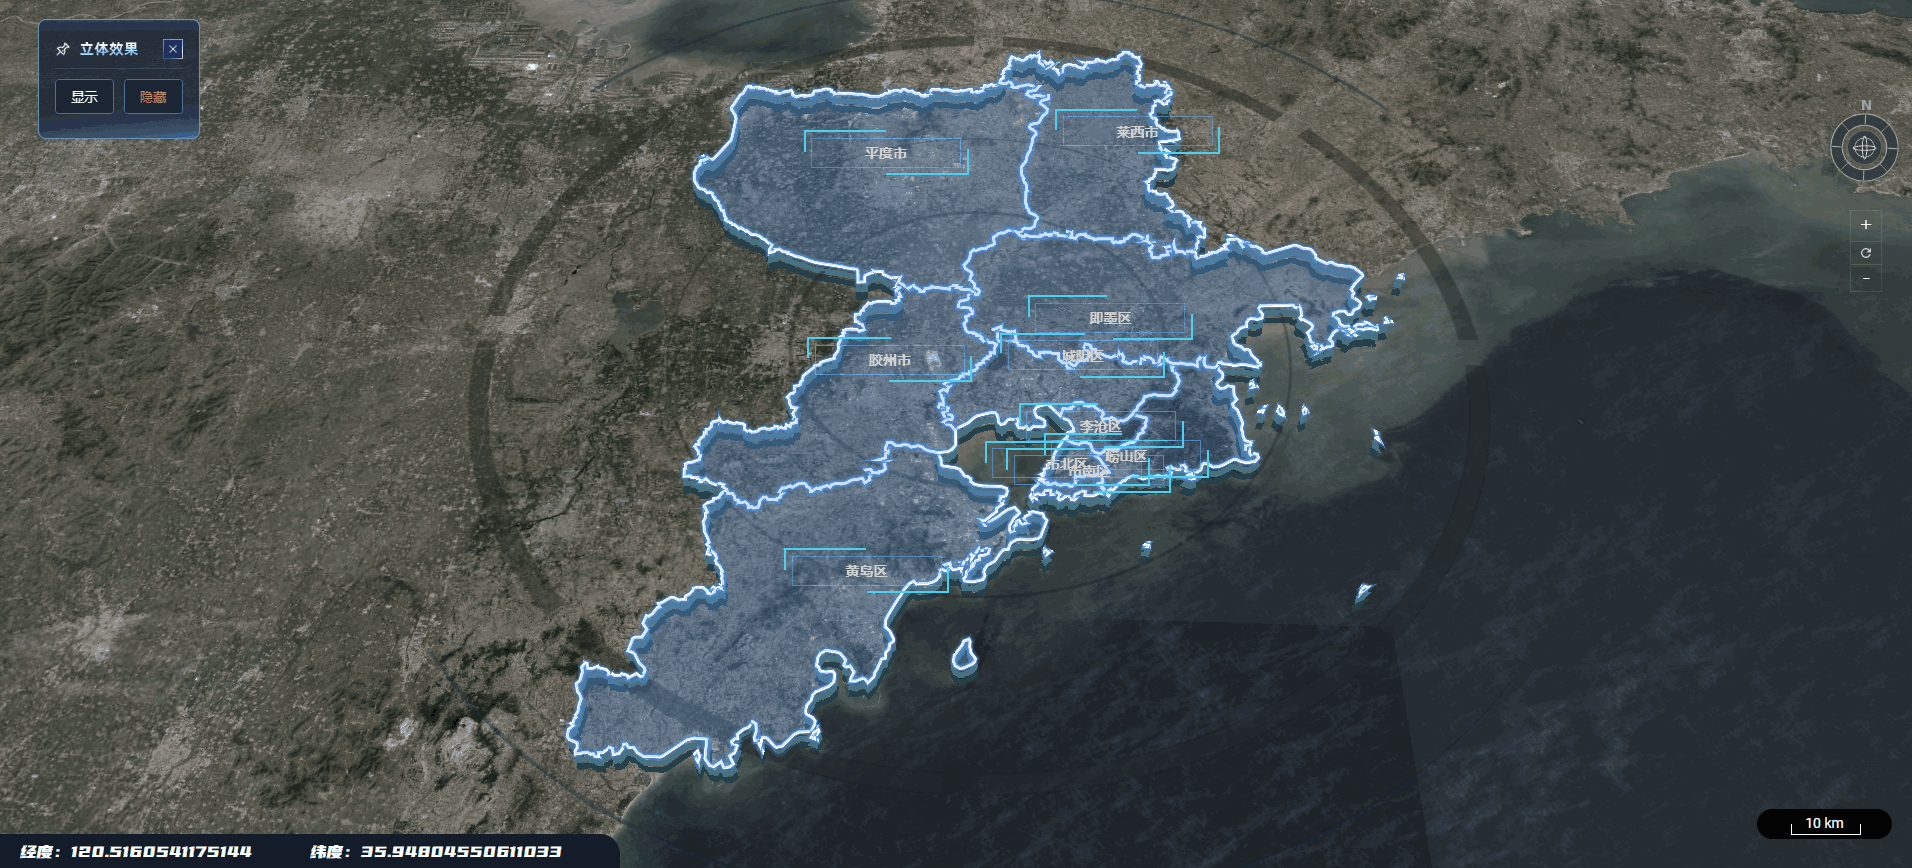
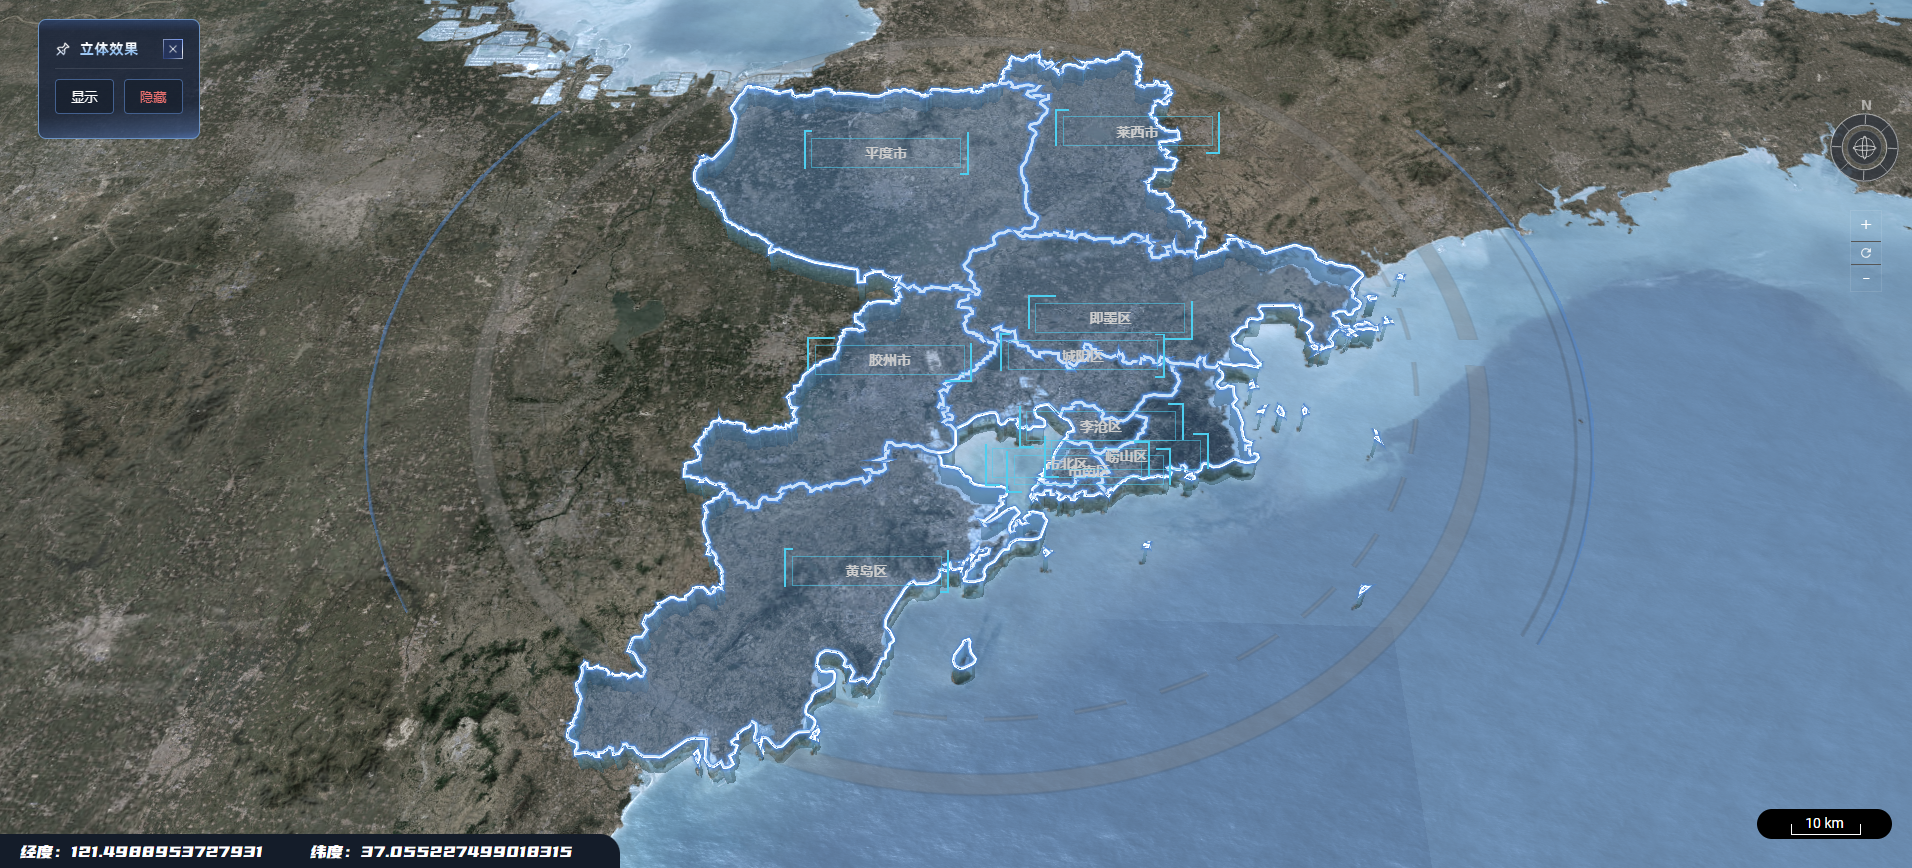
修改部分样式

diff --git a/src/components/example/other/Stereoeffect.vue b/src/components/example/other/Stereoeffect.vue
@@ -12,9 +12,8 @@ import { onMounted } from "vue";
 import { Cartesian3, Appearance, Color } from "cesium";
 import qingdao from "./assets/json/青岛市.json";
 import qingdaoInner from "./assets/json/青岛市-in.json";
-import maskLayer from "@/secdev/cameraView/maskLayer";
-import flowLineAppearance from "@/secdev/specialEffectPlot/lineMaterial/flowLineAppearance";
 import dynamicLabelPoint from "@/secdev/specialEffectPlot/domPoint/dynamicLabelPoint";
+import gradationWallImage from "@/secdev/specialEffectPlot/wall/gradationWallImage";
 
 let border = qingdao.features[0].geometry.coordinates;
 let borderC3 = border.map((coord) => {
@@ -25,7 +24,7 @@ let borderC3 = border.map((coord) => {
     return c3s;
 });
 
-let labels = [];
+let labels: { label: string; coord: number[] }[] = [];
 let innerC3 = qingdaoInner.features
     .map((v) => {
         labels.push({
@@ -45,44 +44,24 @@ let innerC3 = qingdaoInner.features
 
 onMounted(() => {
     viewer.scene.globe.depthTestAgainstTerrain = true;
-    // let mask = new maskLayer(viewer);
-    // mask.create(
-    //     borderC3.map((v) => new Cesium.PolygonHierarchy(v)),
-    //     {
-    //         wall: false,
-    //         alpha: 0.5,
-    //     }
-    // );
+
     // 调整饱和度
     let layer = viewer.imageryLayers.get(0);
     layer.saturation = 0.3;
-    addBorder(
+
+    // 渐变墙
+    addWall(
         borderC3,
-        5,
-        colorAppearance(Cesium.Color.fromCssColorString("rgb(32,65,75)"), true),
-        // flowLineAppearance(Cesium.Color.fromCssColorString("rgb(32,65,75)")),
-        new Cesium.Cartesian3(0, 0, 1000)
-    );
-    addBorder(
-        borderC3,
-        5,
-        colorAppearance(
-            Cesium.Color.fromCssColorString("rgb(63,115,130)"),
-            true
-        ),
-        // flowLineAppearance(Cesium.Color.fromCssColorString("rgb(63,115,130)")),
-        new Cesium.Cartesian3(0, 0, 3000)
+        5000,
+        wallMaterial({
+            0.0: "rgba(32,65,75,0.5)",
+            0.5: "rgba(63,115,130,0.5)",
+            1.0: "rgba(65,132,204,0.5)",
+        })
     );
 
-    // addBorder(
-    //     innerC3,
-    //     10,
-    //     // colorAppearance(Cesium.Color.fromCssColorString("rgb(109,215,248)"), true),
-    //     flowLineAppearance(Cesium.Color.fromCssColorString("rgb(109,215,248)")),
-    //     new Cesium.Cartesian3(0, 0, 5000)
-    // );
-    // 最上
-    let b = addBorder(
+    // 发光线
+    addBorder(
         innerC3,
         10,
         new Cesium.PolylineMaterialAppearance({
@@ -97,7 +76,6 @@ onMounted(() => {
                 },
             }),
         }),
-        // flowLineAppearance(Cesium.Color.fromCssColorString("rgb(109,215,248)")),
         new Cesium.Cartesian3(0, 0, 5000)
     );
 
@@ -112,13 +90,17 @@ onMounted(() => {
     );
 
     labels.forEach((v) => {
-        let p = new dynamicLabelPoint(viewer, {
-            lon: v.coord[0],
-            lat: v.coord[1],
-            height: 5000,
-        }, v.label)
+        let p = new dynamicLabelPoint(
+            viewer,
+            {
+                lon: v.coord[0],
+                lat: v.coord[1],
+                height: 5000,
+            },
+            v.label
+        );
         p.init();
-    })
+    });
 
     addInner();
 
@@ -135,6 +117,26 @@ onMounted(() => {
         ),
     });
 });
+
+function addWall(c3s: Cartesian3[][], height: number, appearance: Appearance) {
+    let wallInstances = c3s.map((v) => {
+        let geomInstance = new Cesium.GeometryInstance({
+            geometry: new Cesium.WallGeometry({
+                positions: v,
+                minimumHeights: v.map(() => 0),
+                maximumHeights: v.map(() => height),
+                vertexFormat: Cesium.VertexFormat.ALL,
+            }),
+        });
+        return geomInstance;
+    });
+
+    let borderprimitive = new Cesium.Primitive({
+        geometryInstances: wallInstances,
+        appearance: appearance,
+    });
+    viewer.scene.primitives.add(borderprimitive);
+}
 
 // 位移
 function displacement(center: Cartesian3, offset: Cartesian3) {
@@ -258,43 +260,12 @@ function circleMaterial() {
 
                     const float M_PI = 3.1415926535897932384626433832795;
 
-                    // const vec3 blue1 = vec3(0.74,0.95,1.00);
-                    // const vec3 blue2 = vec3(0.87,0.98,1.00);
-                    // const vec3 blue3 = vec3(0.35,0.76,0.83);
-
-                    const vec3 blue1 = vec3(0.3, 0.3, 0.3);
+                    const vec3 blue1 = vec3(1., 1., 1.);
                     const vec3 blue2 = vec3(65./255., 132./255., 204./255.);
-                    const vec3 blue3 = vec3(65./255., 132./255., 204./255.);
 
                     float SMOOTH(float r, float R)
                     {
                         return 1.0-smoothstep(R-1.0,R+1.0, r);
-                    }
-
-                    float RS(float a, float b, float x)
-                    {
-                        return smoothstep(a-1.0,a+1.0,x)*(1.0-smoothstep(b-1.0,b+1.0,x));
-                    }
-
-                    float movingLine(vec2 uv, vec2 center, float radius)
-                    {
-                        //angle of the line
-                        float theta0 = 90.0 * time;
-                        vec2 d = uv - center;
-                        float r = sqrt( dot( d, d ) );
-                        if(r<radius)
-                        {
-                            //compute the distance to the line theta=theta0
-                            vec2 p = radius*vec2(cos(theta0*M_PI/180.0),
-                                                -sin(theta0*M_PI/180.0));
-                            float l = length( d - p*clamp( dot(d,p)/dot(p,p), 0.0, 1.0) );
-                            d = normalize(d);
-                            //compute gradient based on angle difference to theta0
-                            float theta = mod(180.0*atan(d.y,d.x)/M_PI+theta0,360.0);
-                            float gradient = clamp(1.0-theta/90.0,0.0,1.0);
-                            return SMOOTH(l,1.0)+0.5*gradient;
-                        }
-                        else return 0.0;
                     }
 
                     float circle(vec2 uv, vec2 center, float radius, float width)
@@ -308,41 +279,21 @@ function circleMaterial() {
                         vec2 d = uv - center;
                         float r = sqrt( dot( d, d ) );
                         d = normalize(d);
-                        if( abs(d.y) > opening )
+                        if( abs(d.x) > opening )
                             return SMOOTH(r-width/2.0,radius)-SMOOTH(r+width/2.0,radius);
                         else
                             return 0.0;
                     }
 
-                    float circle3(vec2 uv, vec2 center, float radius, float width)
+                    float circle3(vec2 uv, vec2 center, float radius, float width, float du)
                     {
                         vec2 d = uv - center;
                         float r = sqrt( dot( d, d ) );
                         d = normalize(d);
                         float theta = 180.0*(atan(d.y,d.x)/M_PI);
-                        return smoothstep(2.0, 2.1, abs(mod(theta+2.0,45.0)-2.0)) *
-                            mix( 0.5, 1.0, step(45.0, abs(mod(theta, 36.0)-90.0)) ) *
+                        return smoothstep(2.0, 2.1, abs(mod(theta+2.0,du)-2.0)) *
+                            mix( 0.5, 1.0, step(du, abs(mod(theta, 36.0)-90.0)) ) *
                             (SMOOTH(r-width/2.0,radius)-SMOOTH(r+width/2.0,radius));
-                    }
-
-                    float triangles(vec2 uv, vec2 center, float radius)
-                    {
-                        vec2 d = uv - center;
-                        return RS(-8.0, 0.0, d.x-radius) * (1.0-smoothstep( 7.0+d.x-radius,9.0+d.x-radius, abs(d.y)))
-                            + RS( 0.0, 8.0, d.x+radius) * (1.0-smoothstep( 7.0-d.x-radius,9.0-d.x-radius, abs(d.y)))
-                            + RS(-8.0, 0.0, d.y-radius) * (1.0-smoothstep( 7.0+d.y-radius,9.0+d.y-radius, abs(d.x)))
-                            + RS( 0.0, 8.0, d.y+radius) * (1.0-smoothstep( 7.0-d.y-radius,9.0-d.y-radius, abs(d.x)));
-                    }
-
-                    float _cross(vec2 uv, vec2 center, float radius)
-                    {
-                        vec2 d = uv - center;
-                        int x = int(d.x);
-                        int y = int(d.y);
-                        float r = sqrt( dot( d, d ) );
-                        if( (r<radius) && ( (x==y) || (x==-y) ) )
-                            return 1.0;
-                        else return 0.0;
                     }
 
                     czm_material czm_getMaterial(czm_materialInput materialInput){
@@ -354,38 +305,26 @@ function circleMaterial() {
 
                         vec2 c = vec2(640.) / 2.; // 中心
 
-                        // float cross_result = _cross(uv, c, 240.0);
-                        // finalColor = vec3(0.3 * cross_result);
-                        // alpha = cross_result;
-
                         // 两个内圈
-                        float circle_result_1 = circle(uv, c, 100.0, 2.0) + circle(uv, c, 165.0, 1.0);
-                        finalColor += circle_result_1 * blue1;
-                        alpha += circle_result_1;
-                        // 白圈
-                        // float circle_result_2 = circle(uv, c, 240.0, 4.0);
-                        // finalColor += circle_result_2;
-                        // alpha += circle_result_2;
-                        // 最外圈
-                        float circle3_result = circle3(uv, c, 262.0, 10.0);
+                        // float circle_result_1 = circle(uv, c, 100.0, 2.0) + circle(uv, c, 165.0, 1.0);
+                        // finalColor += circle_result_1 * blue1;
+                        // alpha += circle_result_1;
+                        // 粗圈
+                        float circle3_result = circle3(uv, c, 262.0, 10.0, 0.);
                         finalColor += circle3_result * blue1;
-                        alpha += circle3_result;
-                        // 三角
-                        // float triangles_result = triangles(uv, c, 315.0 + 30.0 * sin(time));
-                        // finalColor += triangles_result * blue2;
-                        // alpha += triangles_result;
-                        // 扫描线
-                        // float movingLine_result = movingLine(uv, c, 240.0);
-                        // finalColor += movingLine_result * blue3;
-                        // alpha += movingLine_result;
-                        // 最内圈
-                        // float circle_result_3 = circle(uv, c, 10.0, 2.0);
-                        // finalColor += circle_result_3 * blue3;
-                        // alpha += circle_result_3;
-                        // 中间动态圈
-                        float circle2_result = circle2(uv, c, 320.0, 5.0, 0.5+0.2*cos(time));
-                        finalColor += 0.7 * circle2_result * blue3;
+                        alpha += circle3_result * .65;
+                        // 虚线圈
+                        float circle3_result2 = circle3(uv, c, 230.0, 2.0, 10.);
+                        finalColor += circle3_result2 * blue1;
+                        alpha += circle3_result2 * .65;
+                        // 动态圈1
+                        float circle2_result = circle2(uv, c, 320.0, 5.0, 0.65+0.2*cos(time));
+                        finalColor += circle2_result * blue2 / 0.5;
                         alpha += circle2_result;
+                        // 动态圈2
+                        float circle2_result2 = circle2(uv, c, 310.0, 1.0, 0.65+0.2*cos(time));
+                        finalColor += 0.7 * circle2_result2 * blue1;
+                        alpha += circle2_result2 * .65;
 
                         material.diffuse = finalColor;
                         material.alpha = alpha * .5;
@@ -417,6 +356,19 @@ function circleMaterial() {
         material: m,
         removeUpdate: removeUpdate,
     };
+}
+
+function wallMaterial(option: Record<number, string>) {
+    return new Cesium.MaterialAppearance({
+        material: new Cesium.Material({
+            fabric: {
+                type: Cesium.Material.ImageType,
+                uniforms: {
+                    image: gradationWallImage(option),
+                },
+            },
+        }),
+    });
 }
 </script>
 
